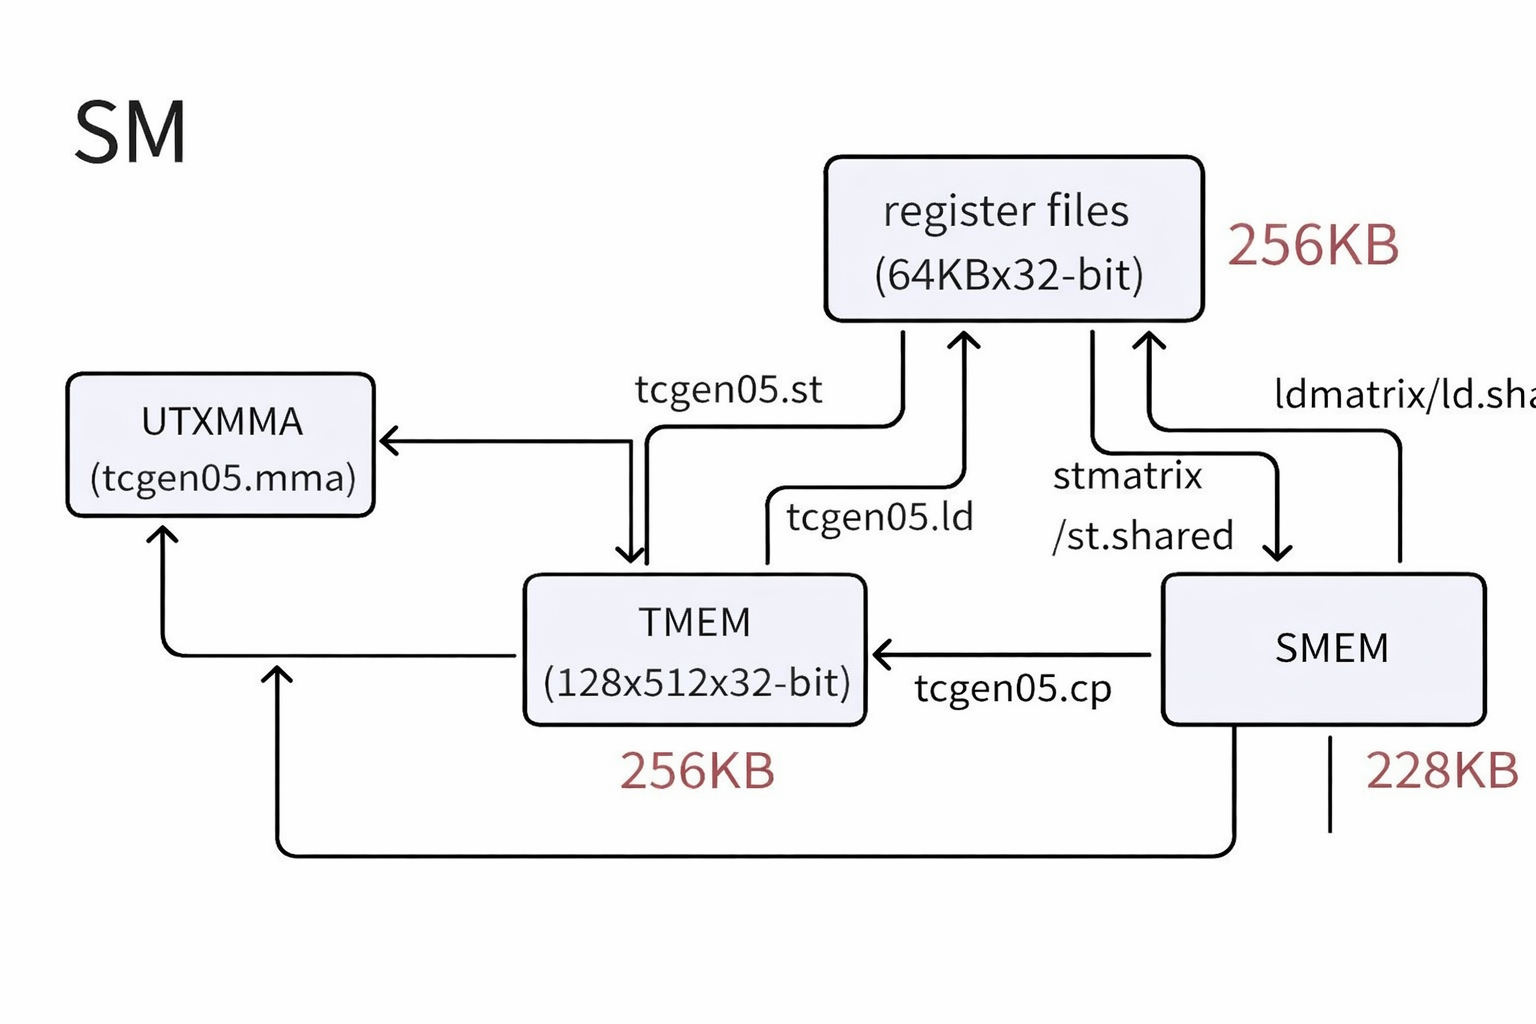
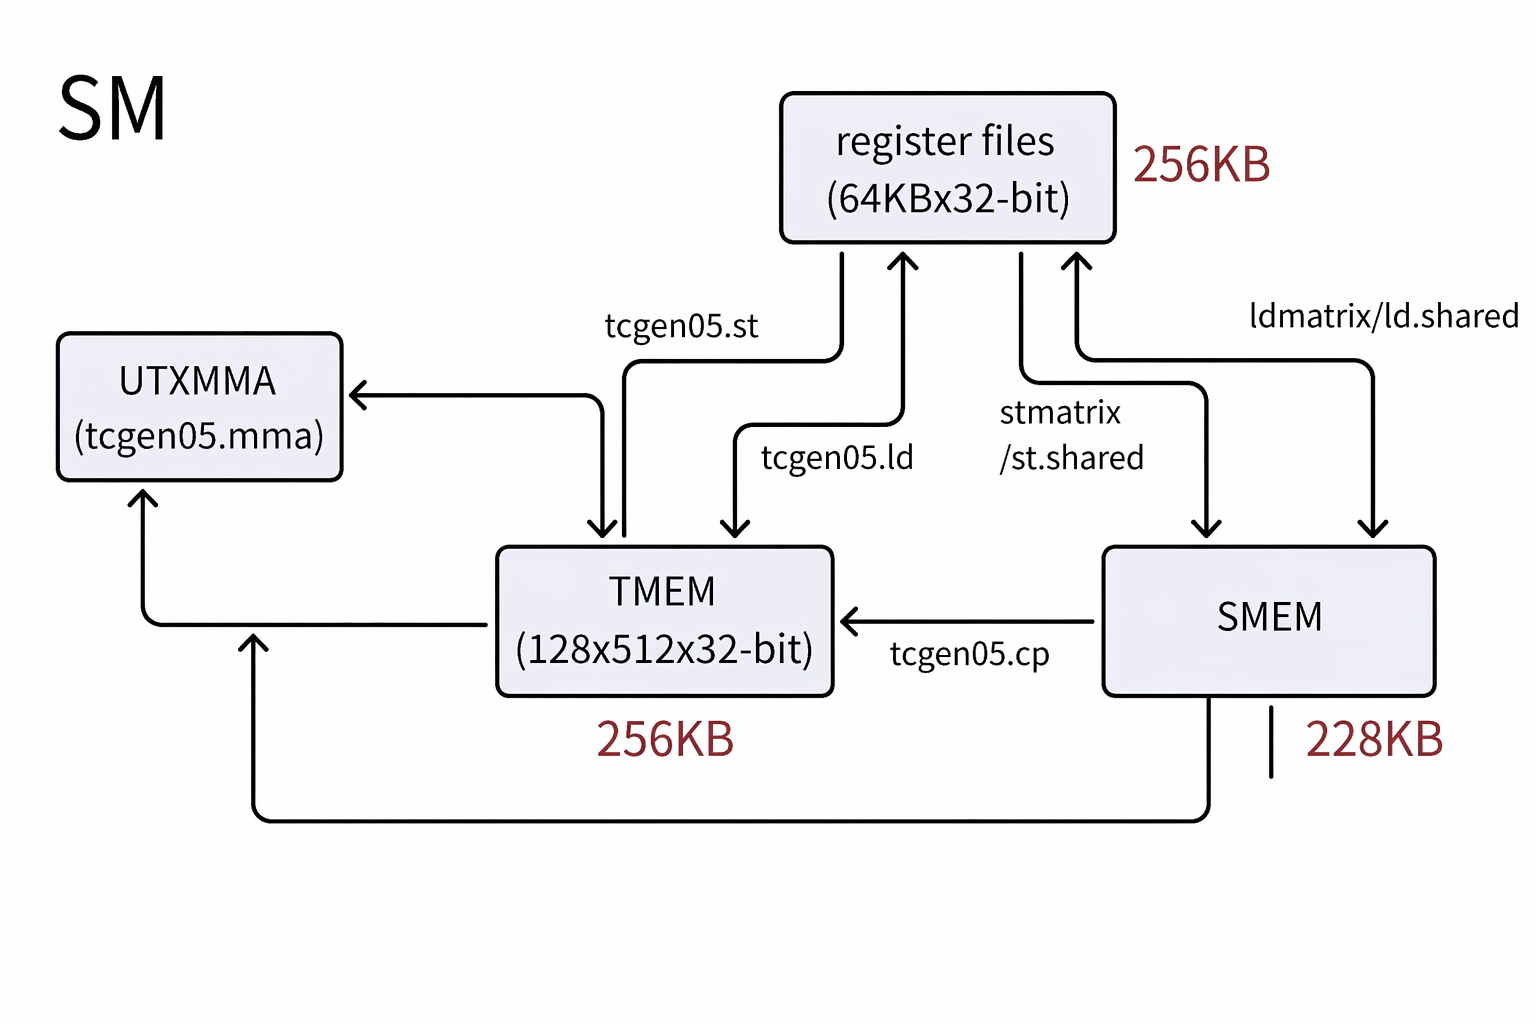
Fix typo in attn-qat blog (#72)
* add attn qat

* fix

* fix

* fix

* fix

* fix

* fix

* fix

* fix

* fix

* fix

* fix

* fix

* fix

* fix

* fix

* fix

* fix

* fix

* update youtube links

* be humble

* date

* fix

* fix

* fix

* fix

* fix

* fix

* fix

* fix

* fix

* fix

* fix

* fix

* fix

* fix

* fix

* fix

* fix

* fix

* fix

* fix

* fix

* fix

* fix

* fix

* fix

* fix

* fix

* fix

* fix

* fix

* fix

* fix

* fix

* fix

* fix

* fix

* fix

* fix

* fix

* fix

* fix

* fix

* fix

* fix

* fix

* fix

* fix

* fix

* fix

* fix

* fix

* fix

* fix

* fix

* fix

* fix

* fix

* fix

* fix

* fix

* fix

* fix

* fix

* fix

* fix

* fix

* fix

* fix

* fix

* fix

* fix

* fix

* fix

* fix

* fix

* fix

* fix

* fix

* fix

* fix

* fix

* fix

* fix

* fix

* fix

* fix

* fix

* fix

* fix

* fix

* fix

* fix

* fix

* fix

* fix

* fix

* fix

* fix

* fix

* fix

* fix

* fix

* fix

* fix

* fix

* fix

* fix

* fix

* fix

* fix

* update

* update

* update

* update

* fix

* fix

* misc fixes

* TDP footnote

* Fix broken bold markdown and missing period in e.g.

* fix typos

* add uninit reg bug ref

* fix

* fix sm img

---------

Changed region(s): [[0.0312, 0.0938, 1.0, 0.8438], [0.0312, 0.0625, 0.125, 0.1562], [0.5312, 0.0625, 0.7188, 0.0938]]

diff --git a/content/blogs/attn-qat/index.md b/content/blogs/attn-qat/index.md
@@ -177,7 +177,7 @@ Because Attn-QAT eliminates the need for extra smoothing and two-level quantizat
 
 ## Part 2 (for GPU hackers): B200/B300 FP4 Attention Kernel
 
-To enable Attn-QAT **on data-center grade Blackwell GPUs (e.g., B200s/B300s)**, we also developed [FlashAttention-4 FP4](https://github.com/hao-ai-lab/flash-attention-fp4), an NVFP4-quantized FA4 kernel implemented in CuTeDSL, achieving up to a 1.39x speedup over FA4 and 1801 TFLOPS. The rest of this section explains the implementation challenges and what they reveal about the evolution of NVIDIA's hardware.
+To enable Attn-QAT **on data-center grade Blackwell GPUs (e.g., B200s/B300s)**, we also developed [FlashAttention-4 FP4](https://github.com/hao-ai-lab/flash-attention-fp4), an NVFP4-quantized FA4 kernel implemented in CuTeDSL, achieving up to a 1.39x speedup over FA4 and 1801 TFLOPS. The rest of this section explains the implementation challenges and what they reveal about NVIDIA's hardware evolution.
 
 ### Block-scaled MMAs and TMEM
 
@@ -237,7 +237,7 @@ To accelerate GEMMs, we analyzed the scale factor dataflow on a B200. We found t
 However, with 128x128 tiles, FA4's pipeline **already uses all available TMEM**:
 
 - S1 and S2 ($\mathbf{Q}\mathbf{K}$ outputs): 128 columns each
-- O1/O2 use the remaining columns: remaining 256 columns
+- O1/O2 use the remaining 256 columns
 
 {{< figure src="img/pipeline.png" alt="B200 kernel" width="100%" align="center" >}}
 
@@ -285,7 +285,7 @@ At the time of writing this blog, we received updates from an [FP8 non-block-sca
 
 ### Agent Assisted Kernel Dev
 
-During debugging, we found agents such as Claude surprisingly effective even for low-level PTX and CuTeDSL code. It surfaced an obscure uninitialized register bug in FA4, which we confirmed to be fixed a week earlier by Tri Dao (buried in a [large commit](https://github.com/Dao-AILab/flash-attention/commit/c79976218fb71f282f76cb959a5aad48a2d23e86)). Claude cut down at least 1-2 weeks of debugging time—these tools are particularly useful for SASS inspection (e.g. CuTeDSL -> PTX → SASS mapping), instruction dependency analysis, and guided performance debugging via structured task lists in a `.md` file
+During debugging, we found agents such as Claude surprisingly effective even for low-level PTX and CuTeDSL code. It surfaced an obscure [uninitialized register bug in FA4](https://github.com/Dao-AILab/flash-attention/blob/02931551ece7eb7f36e94302ad79daee6beda2e6/flash_attn/cute/blackwell_helpers.py#L316), which we confirmed to be fixed a week earlier by Tri Dao (buried in a [large commit](https://github.com/Dao-AILab/flash-attention/commit/c79976218fb71f282f76cb959a5aad48a2d23e86)). Claude cut down at least 1-2 weeks of debugging time—these tools are particularly useful for SASS inspection (e.g. CuTeDSL -> PTX → SASS mapping), instruction dependency analysis, and guided performance debugging via structured task lists in a `.md` file
 
 Designing SOTA kernels has been extremely time-consuming even for the top experts (e.g. FlashAttention3 came out a year after the Hopper release), as there are too many knobs to tune, and even a one-liner can change the compiled PTX significantly. We believe **agents are best suited for bisecting bottlenecks** and accelerating kernel development.
 
